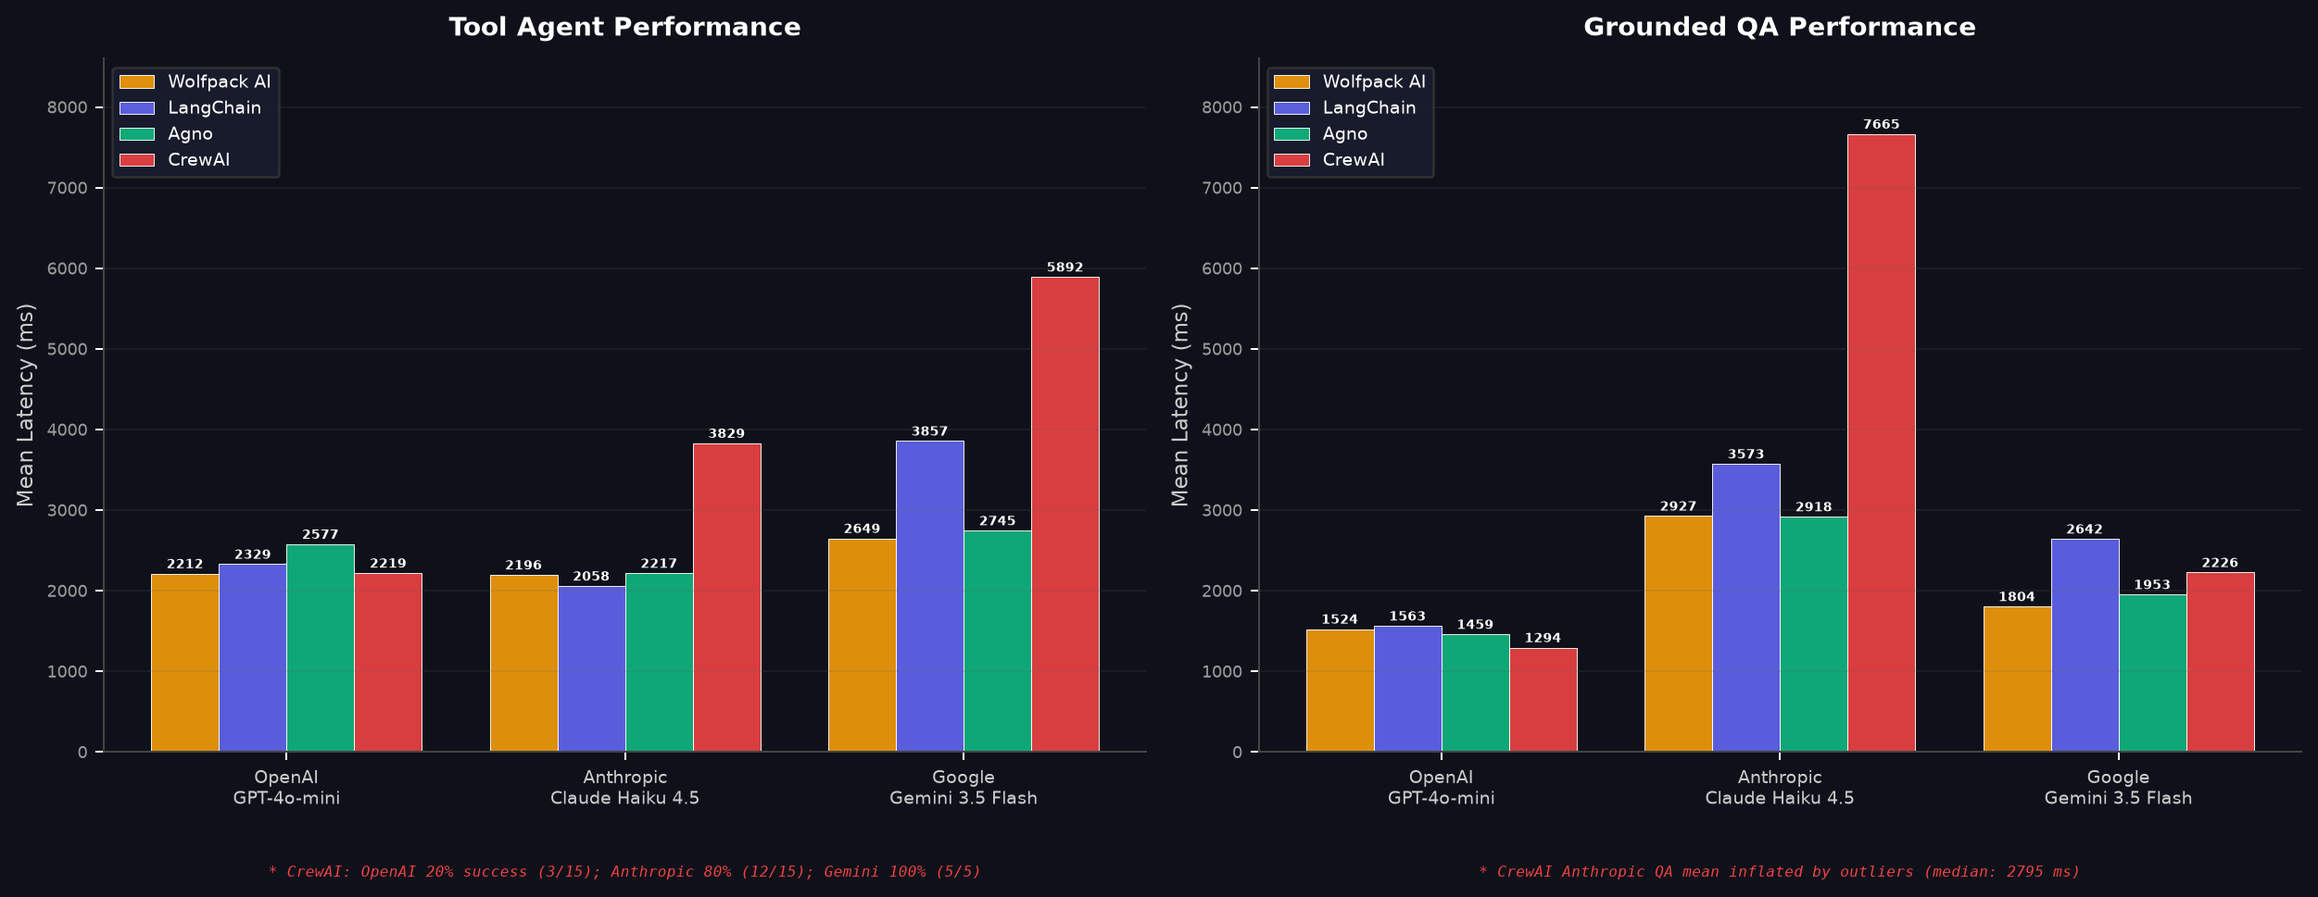
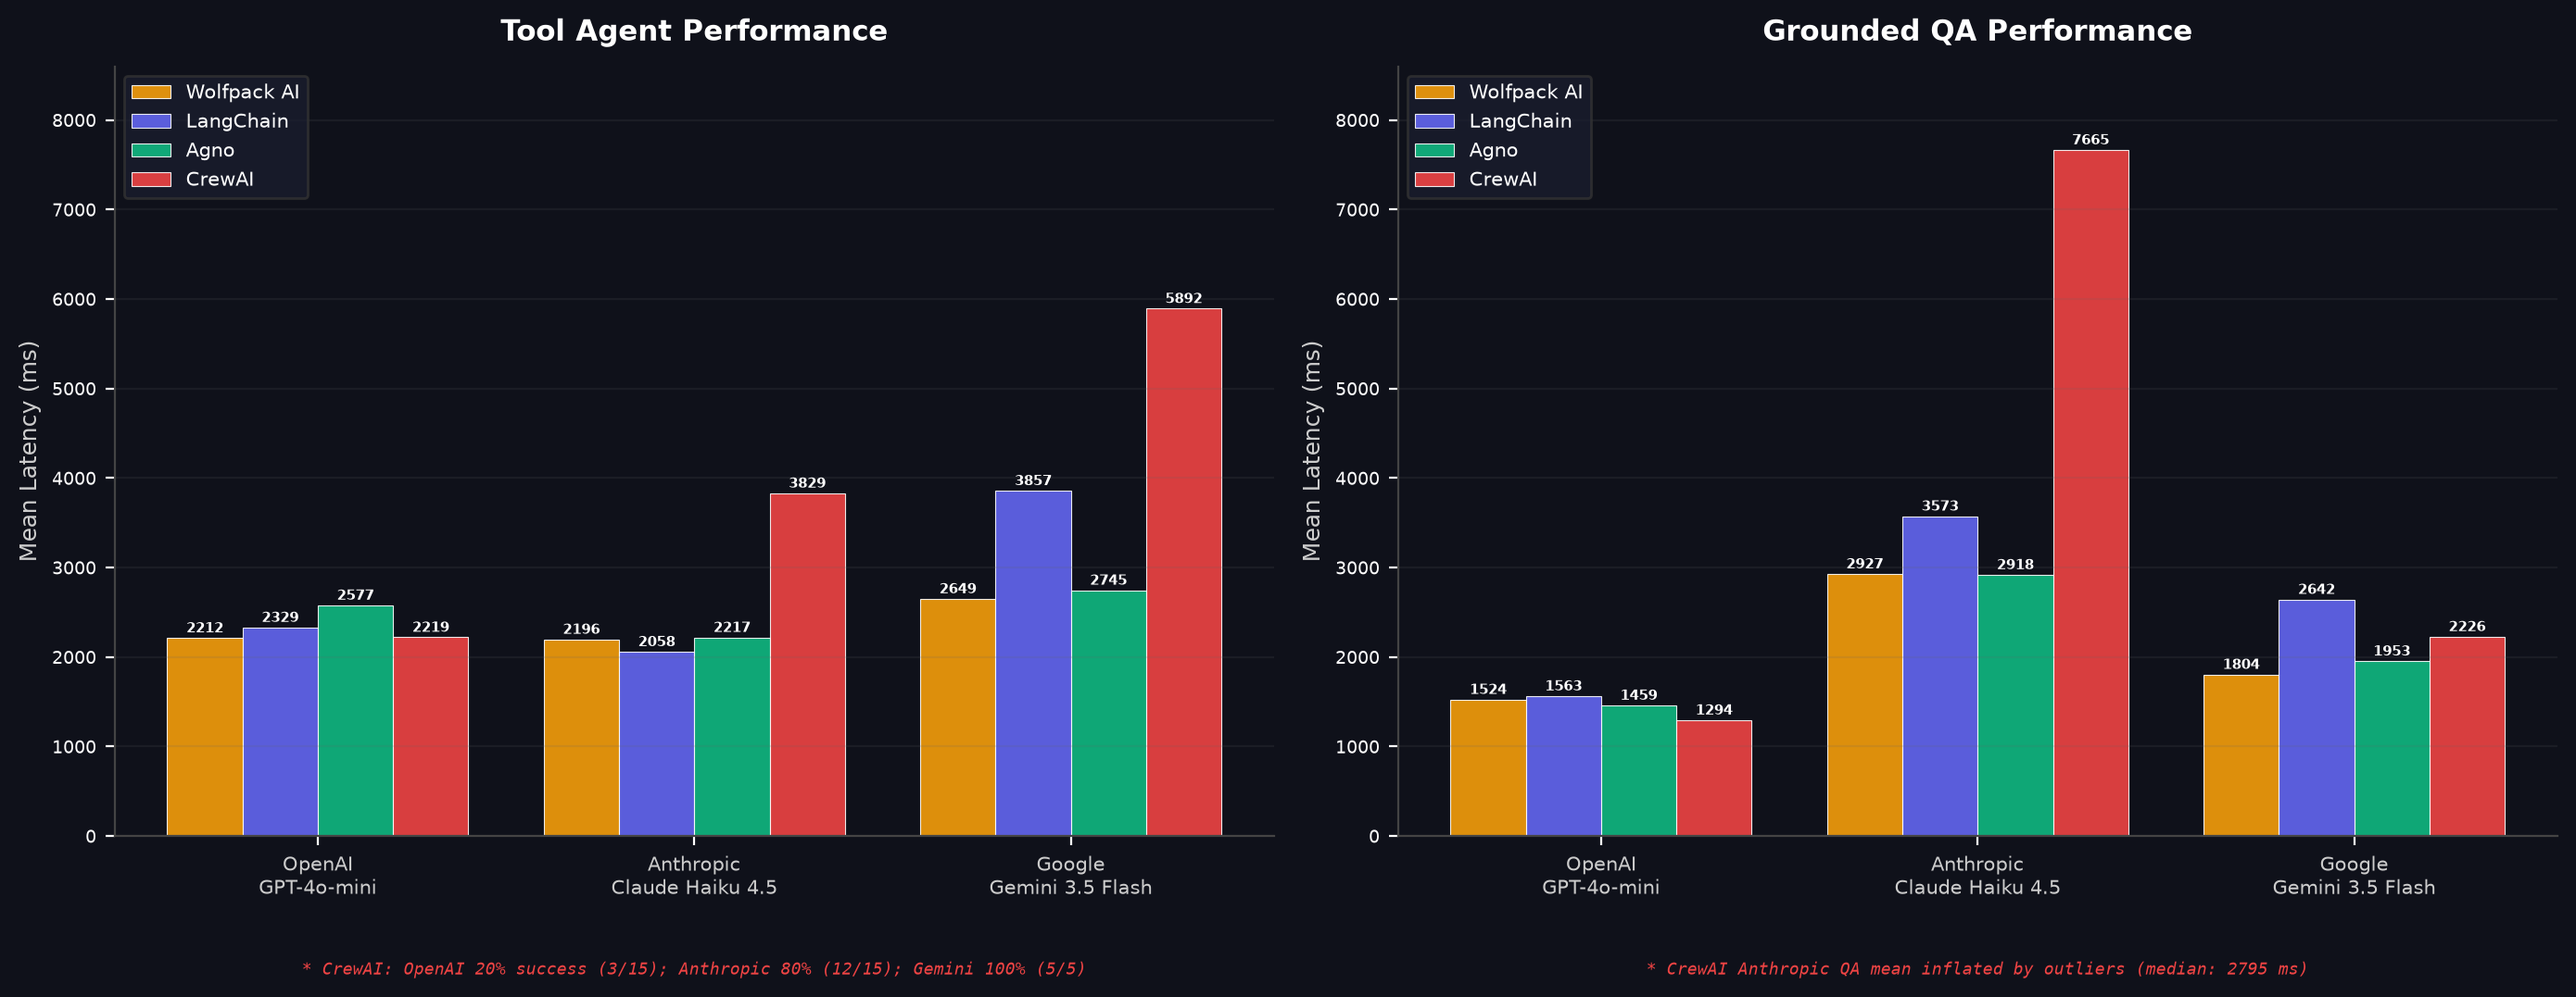
Add hi-res modal image (benchmark-modal.png) for full-size view on click

diff --git a/website/src/pages/LandingPage.tsx b/website/src/pages/LandingPage.tsx
@@ -193,7 +193,7 @@ export default function LandingPage() {
         <div className="fixed inset-0 z-50 bg-black/80 flex items-center justify-center p-4" onClick={() => setModalOpen(false)}>
           <div className="relative max-w-6xl w-full" onClick={(e) => e.stopPropagation()}>
             <button onClick={() => setModalOpen(false)} className="absolute top-4 right-4 w-10 h-10 rounded-full bg-black/60 text-white flex items-center justify-center text-xl hover:bg-black/80 z-10">&times;</button>
-            <img src="/images/benchmark-banner.png" alt="Benchmark chart" className="w-full h-auto rounded-2xl shadow-2xl" />
+            <img src="/images/benchmark-modal.png" alt="Benchmark chart" className="w-full h-auto rounded-2xl shadow-2xl" />
           </div>
         </div>
       )}
